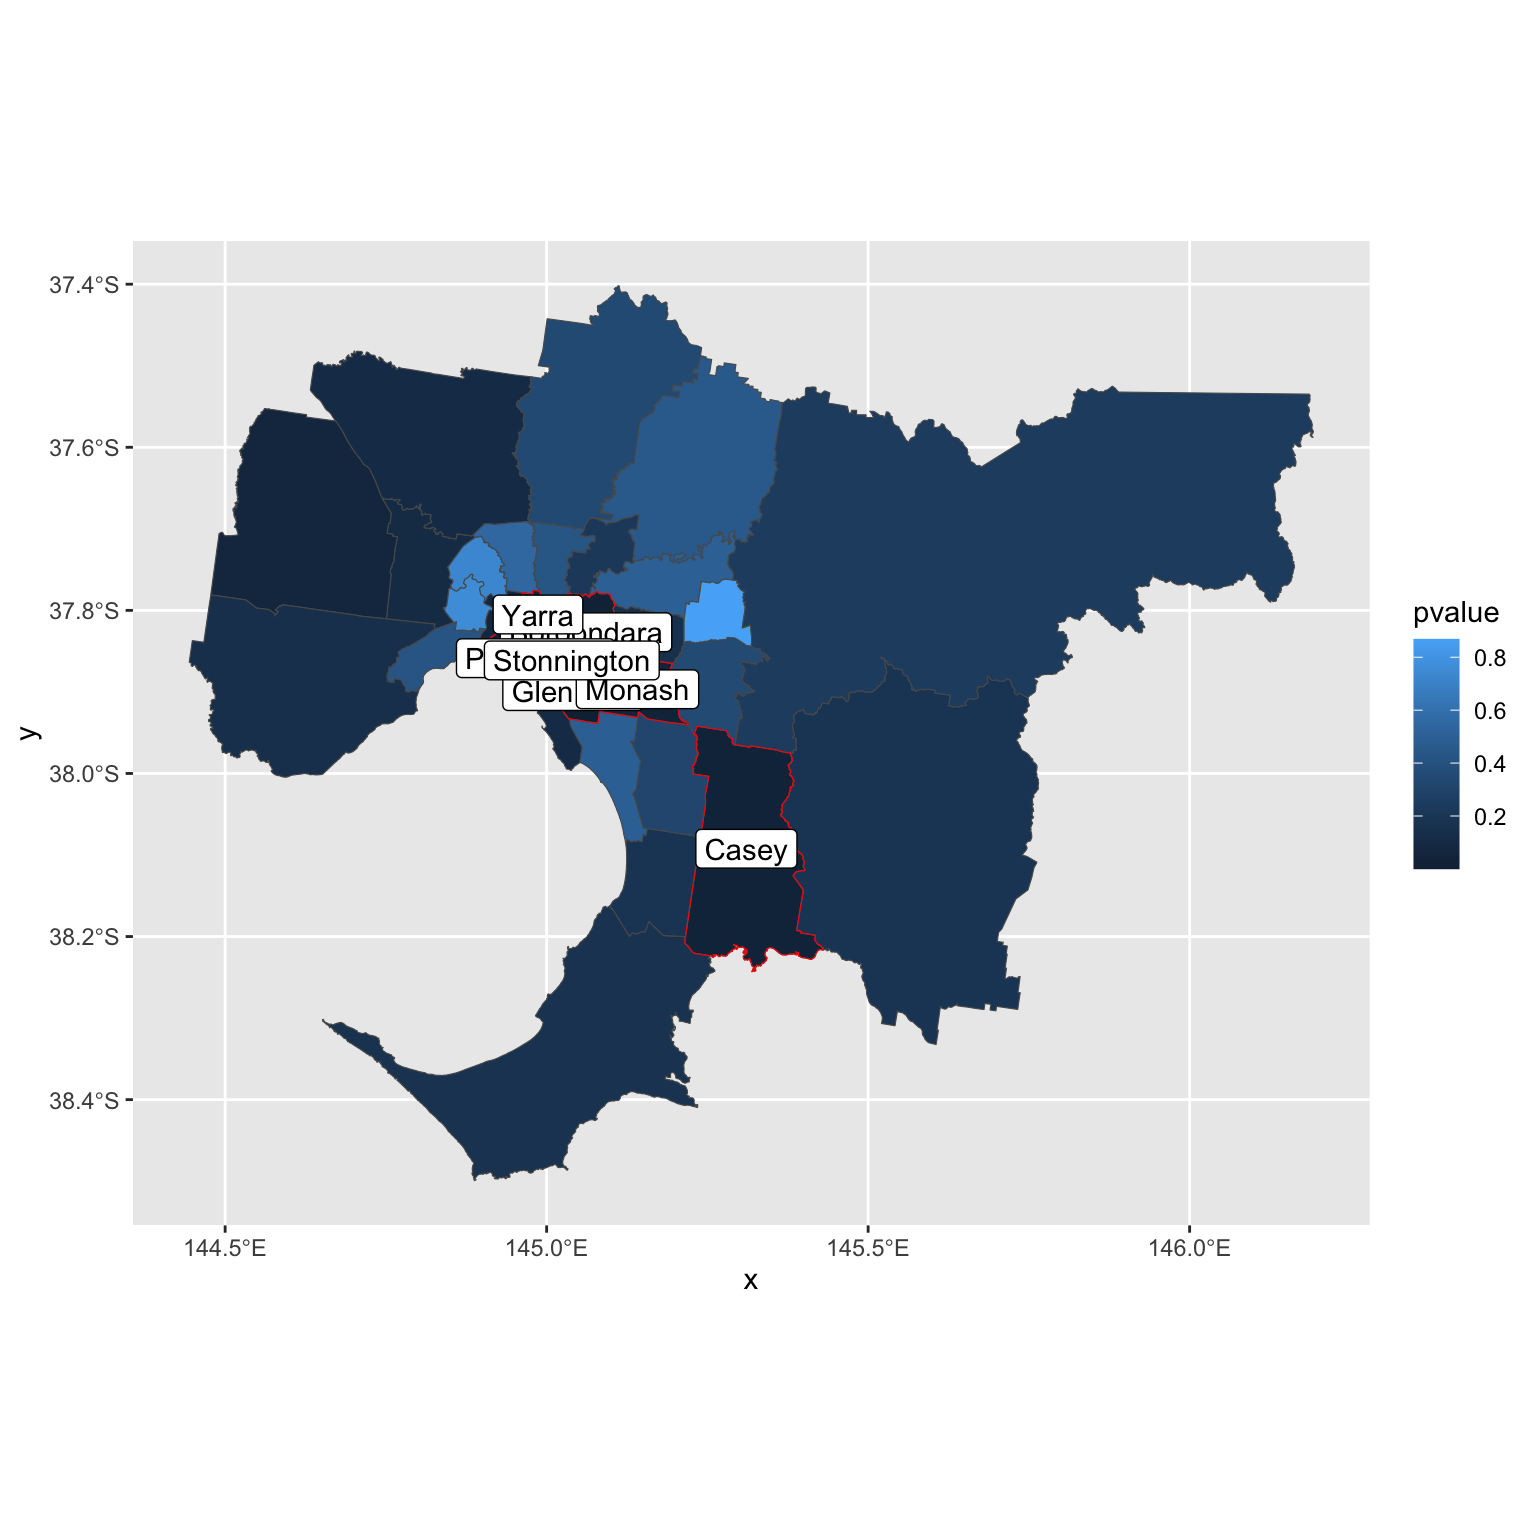
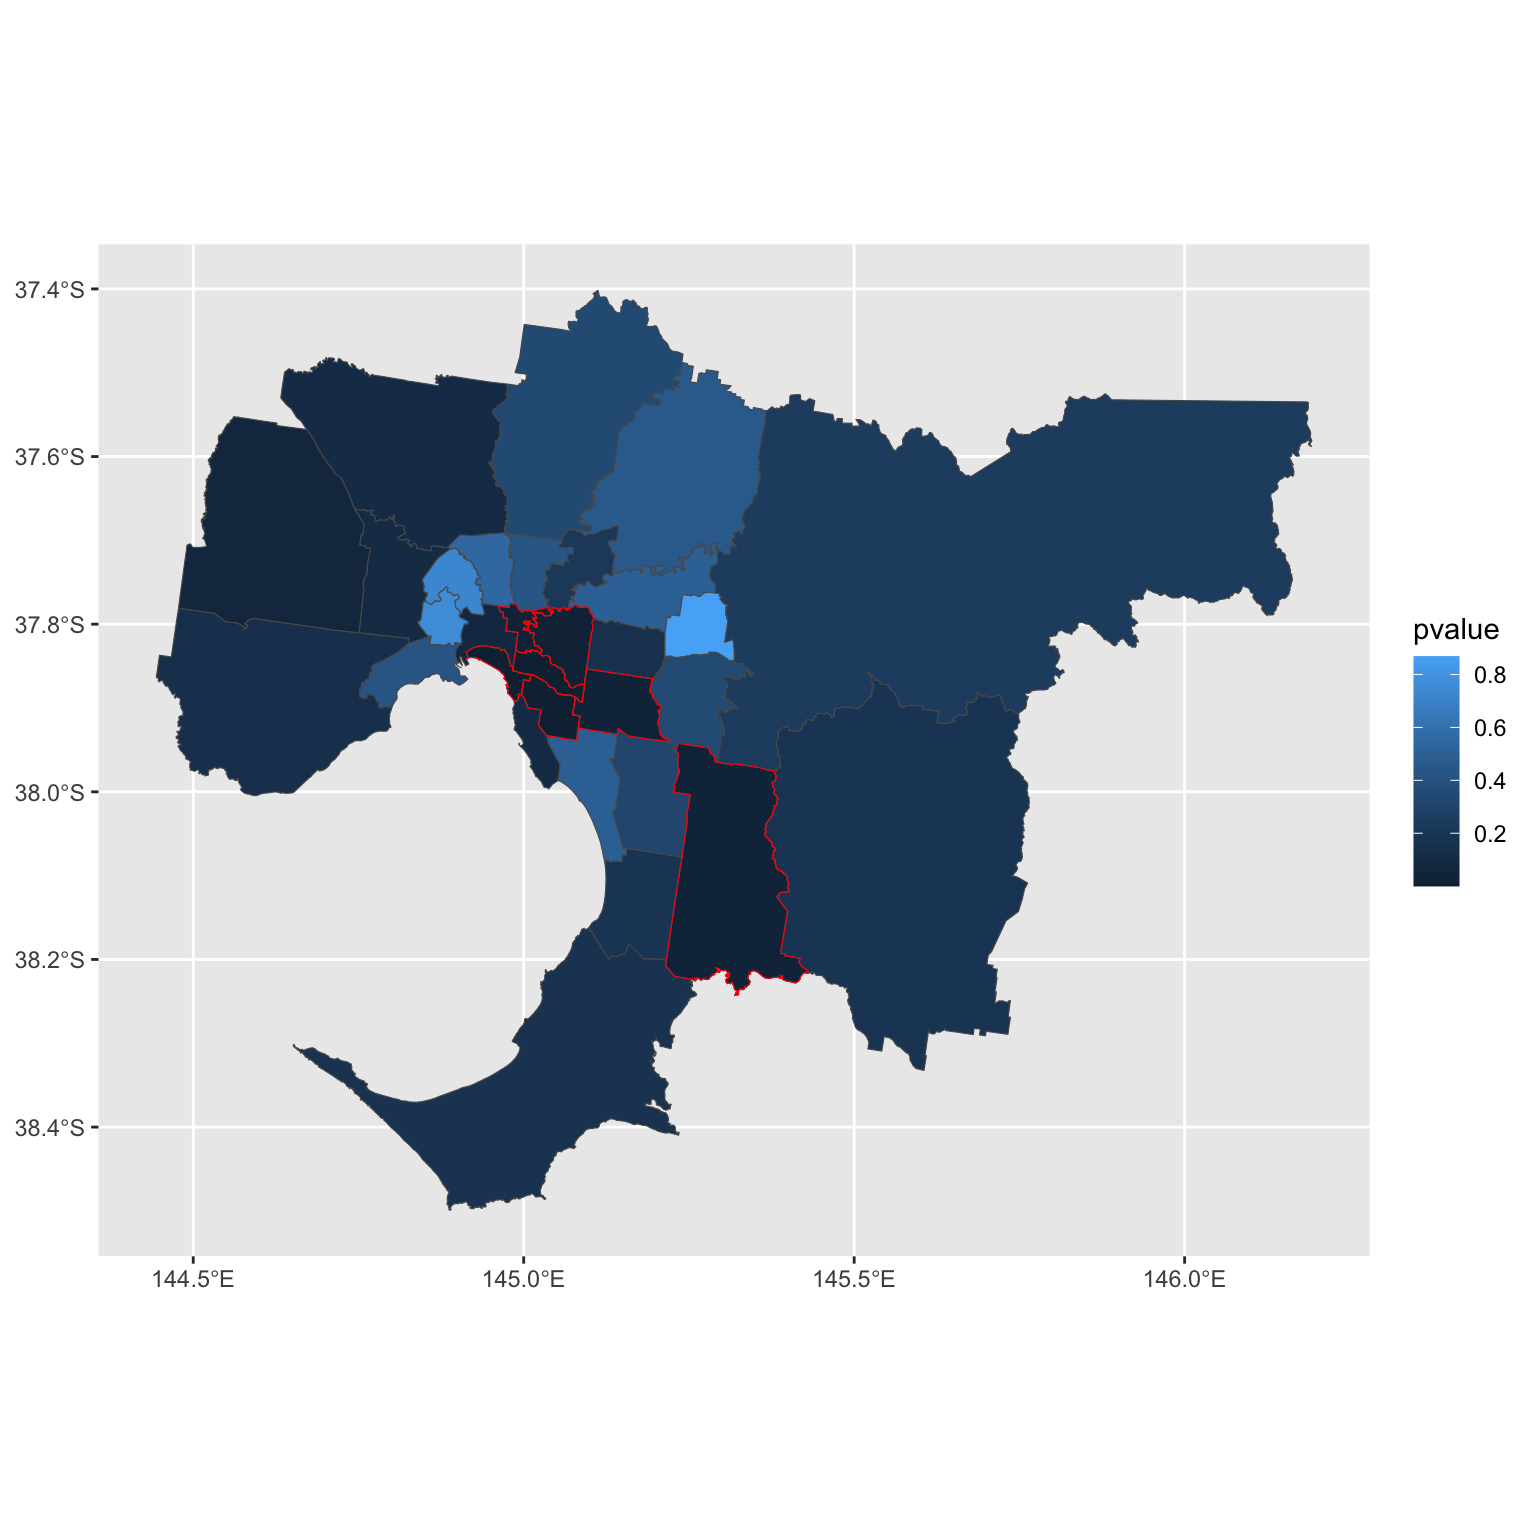
Update

diff --git a/Week9.html b/Week9.html
@@ -525,11 +525,13 @@ change <em>alternative</em> to <em>greater</em>.</p>
 <p>You can also highlight these cities.</p>
 <pre class="r"><code>gmellisa2 = gmellisa[gmellisa$pvalue &lt; 0.05, ]
 ggplot() + geom_sf(data=gmellisa, aes(fill = pvalue)) + 
+  geom_sf(data = gmellisa2, color = &quot;red&quot;, alpha = 0)</code></pre>
+<p><img src="Week9_files/figure-html/unnamed-chunk-12-1.png" width="768" style="display: block; margin: auto;" /></p>
+<p>or</p>
+<pre class="r"><code>gmellisa2 = gmellisa[gmellisa$pvalue &lt; 0.05, ]
+ggplot() + geom_sf(data=gmellisa, aes(fill = pvalue)) + 
   geom_sf(data = gmellisa2, color = &quot;red&quot;, alpha = 0) + 
   geom_sf_label(data = gmellisa2, aes(label = name2))</code></pre>
-<p><img src="Week9_files/figure-html/unnamed-chunk-12-1.png" width="768" style="display: block; margin: auto;" /></p>
-<p>Or</p>
-<pre class="r"><code>ggplot() + geom_sf(data=gmellisa, aes(fill = lisa, color = (pvalue &lt; 0.05)))</code></pre>
 <p><img src="Week9_files/figure-html/unnamed-chunk-13-1.png" width="768" style="display: block; margin: auto;" /></p>
 </div>
 </div>
